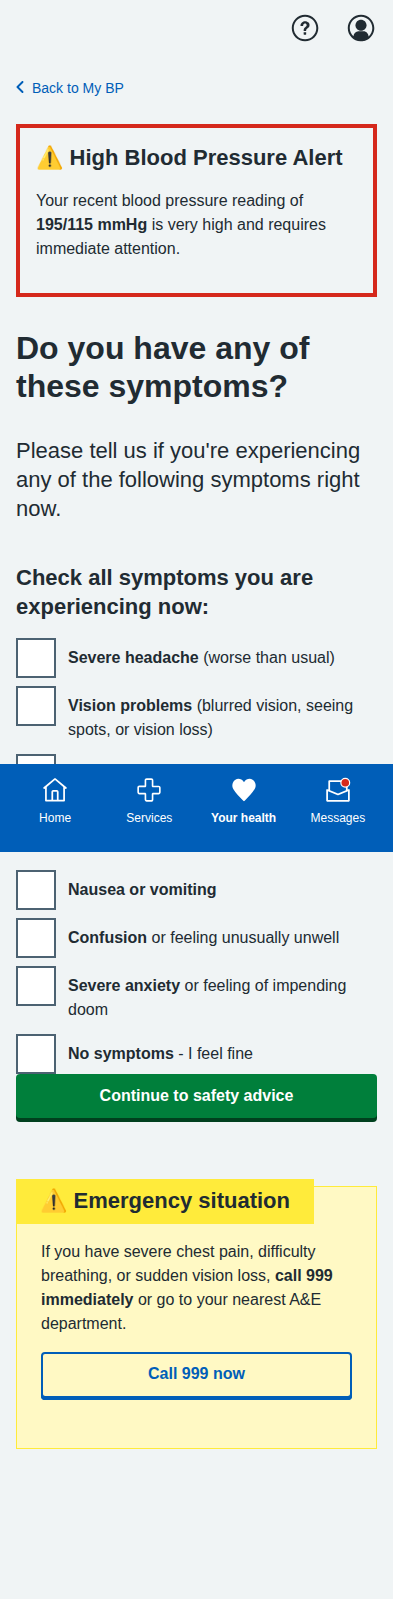
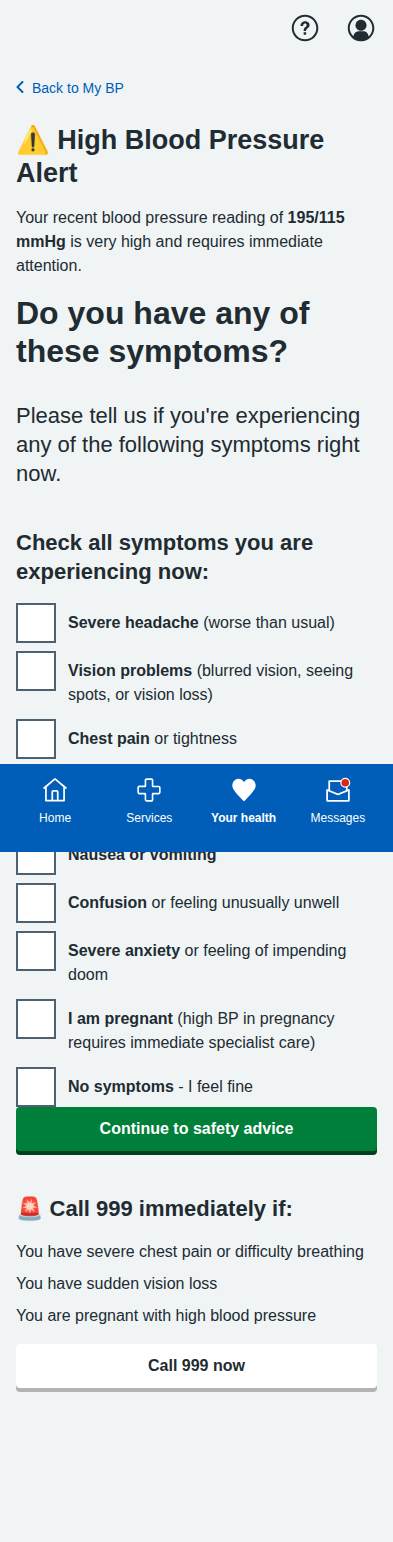
Fix Red Flag symptom confirmation screen to adhere to NHS style guidelines

diff --git a/prototype/v1/app/views/pages/mybp/red-flag-emergency/symptom-confirmation.html b/prototype/v1/app/views/pages/mybp/red-flag-emergency/symptom-confirmation.html
@@ -14,11 +14,14 @@
   <div class="nhsuk-grid-row">
     <div class="nhsuk-grid-column-two-thirds">
 
-      <div class="nhsuk-error-summary" aria-labelledby="error-summary-title" role="alert" style="border-left-color: #d5281b;">
-        <h2 class="nhsuk-error-summary__title" id="error-summary-title">
-          ⚠ High Blood Pressure Alert
-        </h2>
-        <div class="nhsuk-error-summary__body">
+      <div class="nhsuk-care-card nhsuk-care-card--urgent">
+        <div class="nhsuk-care-card__heading-container">
+          <h2 class="nhsuk-care-card__heading">
+            <span role="img" aria-label="Urgent">⚠</span>
+            High Blood Pressure Alert
+          </h2>
+        </div>
+        <div class="nhsuk-care-card__content">
           <p>Your recent blood pressure reading of <strong>195/115 mmHg</strong> is very high and requires immediate attention.</p>
         </div>
       </div>
@@ -112,17 +115,25 @@
 
       </form>
 
-      <div class="nhsuk-warning-callout">
-        <h3 class="nhsuk-warning-callout__label">
-          <span role="img" aria-label="Warning">⚠</span>
-          Emergency situation
-        </h3>
-        <p>If you have severe chest pain, difficulty breathing, sudden vision loss, <strong>or if you are pregnant</strong>, <strong>call 999 immediately</strong> or go to your nearest A&E department.</p>
-        <p>
-          <a href="tel:999" class="nhsuk-button nhsuk-button--secondary">
-            Call 999 now
-          </a>
-        </p>
+      <div class="nhsuk-care-card nhsuk-care-card--immediate">
+        <div class="nhsuk-care-card__heading-container">
+          <h3 class="nhsuk-care-card__heading">
+            <span role="img" aria-label="Immediate">🚨</span>
+            Call 999 immediately if:
+          </h3>
+        </div>
+        <div class="nhsuk-care-card__content">
+          <ul class="nhsuk-list">
+            <li>You have severe chest pain or difficulty breathing</li>
+            <li>You have sudden vision loss</li>
+            <li>You are pregnant with high blood pressure</li>
+          </ul>
+          <p>
+            <a href="tel:999" class="nhsuk-button nhsuk-button--reverse">
+              Call 999 now
+            </a>
+          </p>
+        </div>
       </div>
 
     </div>
